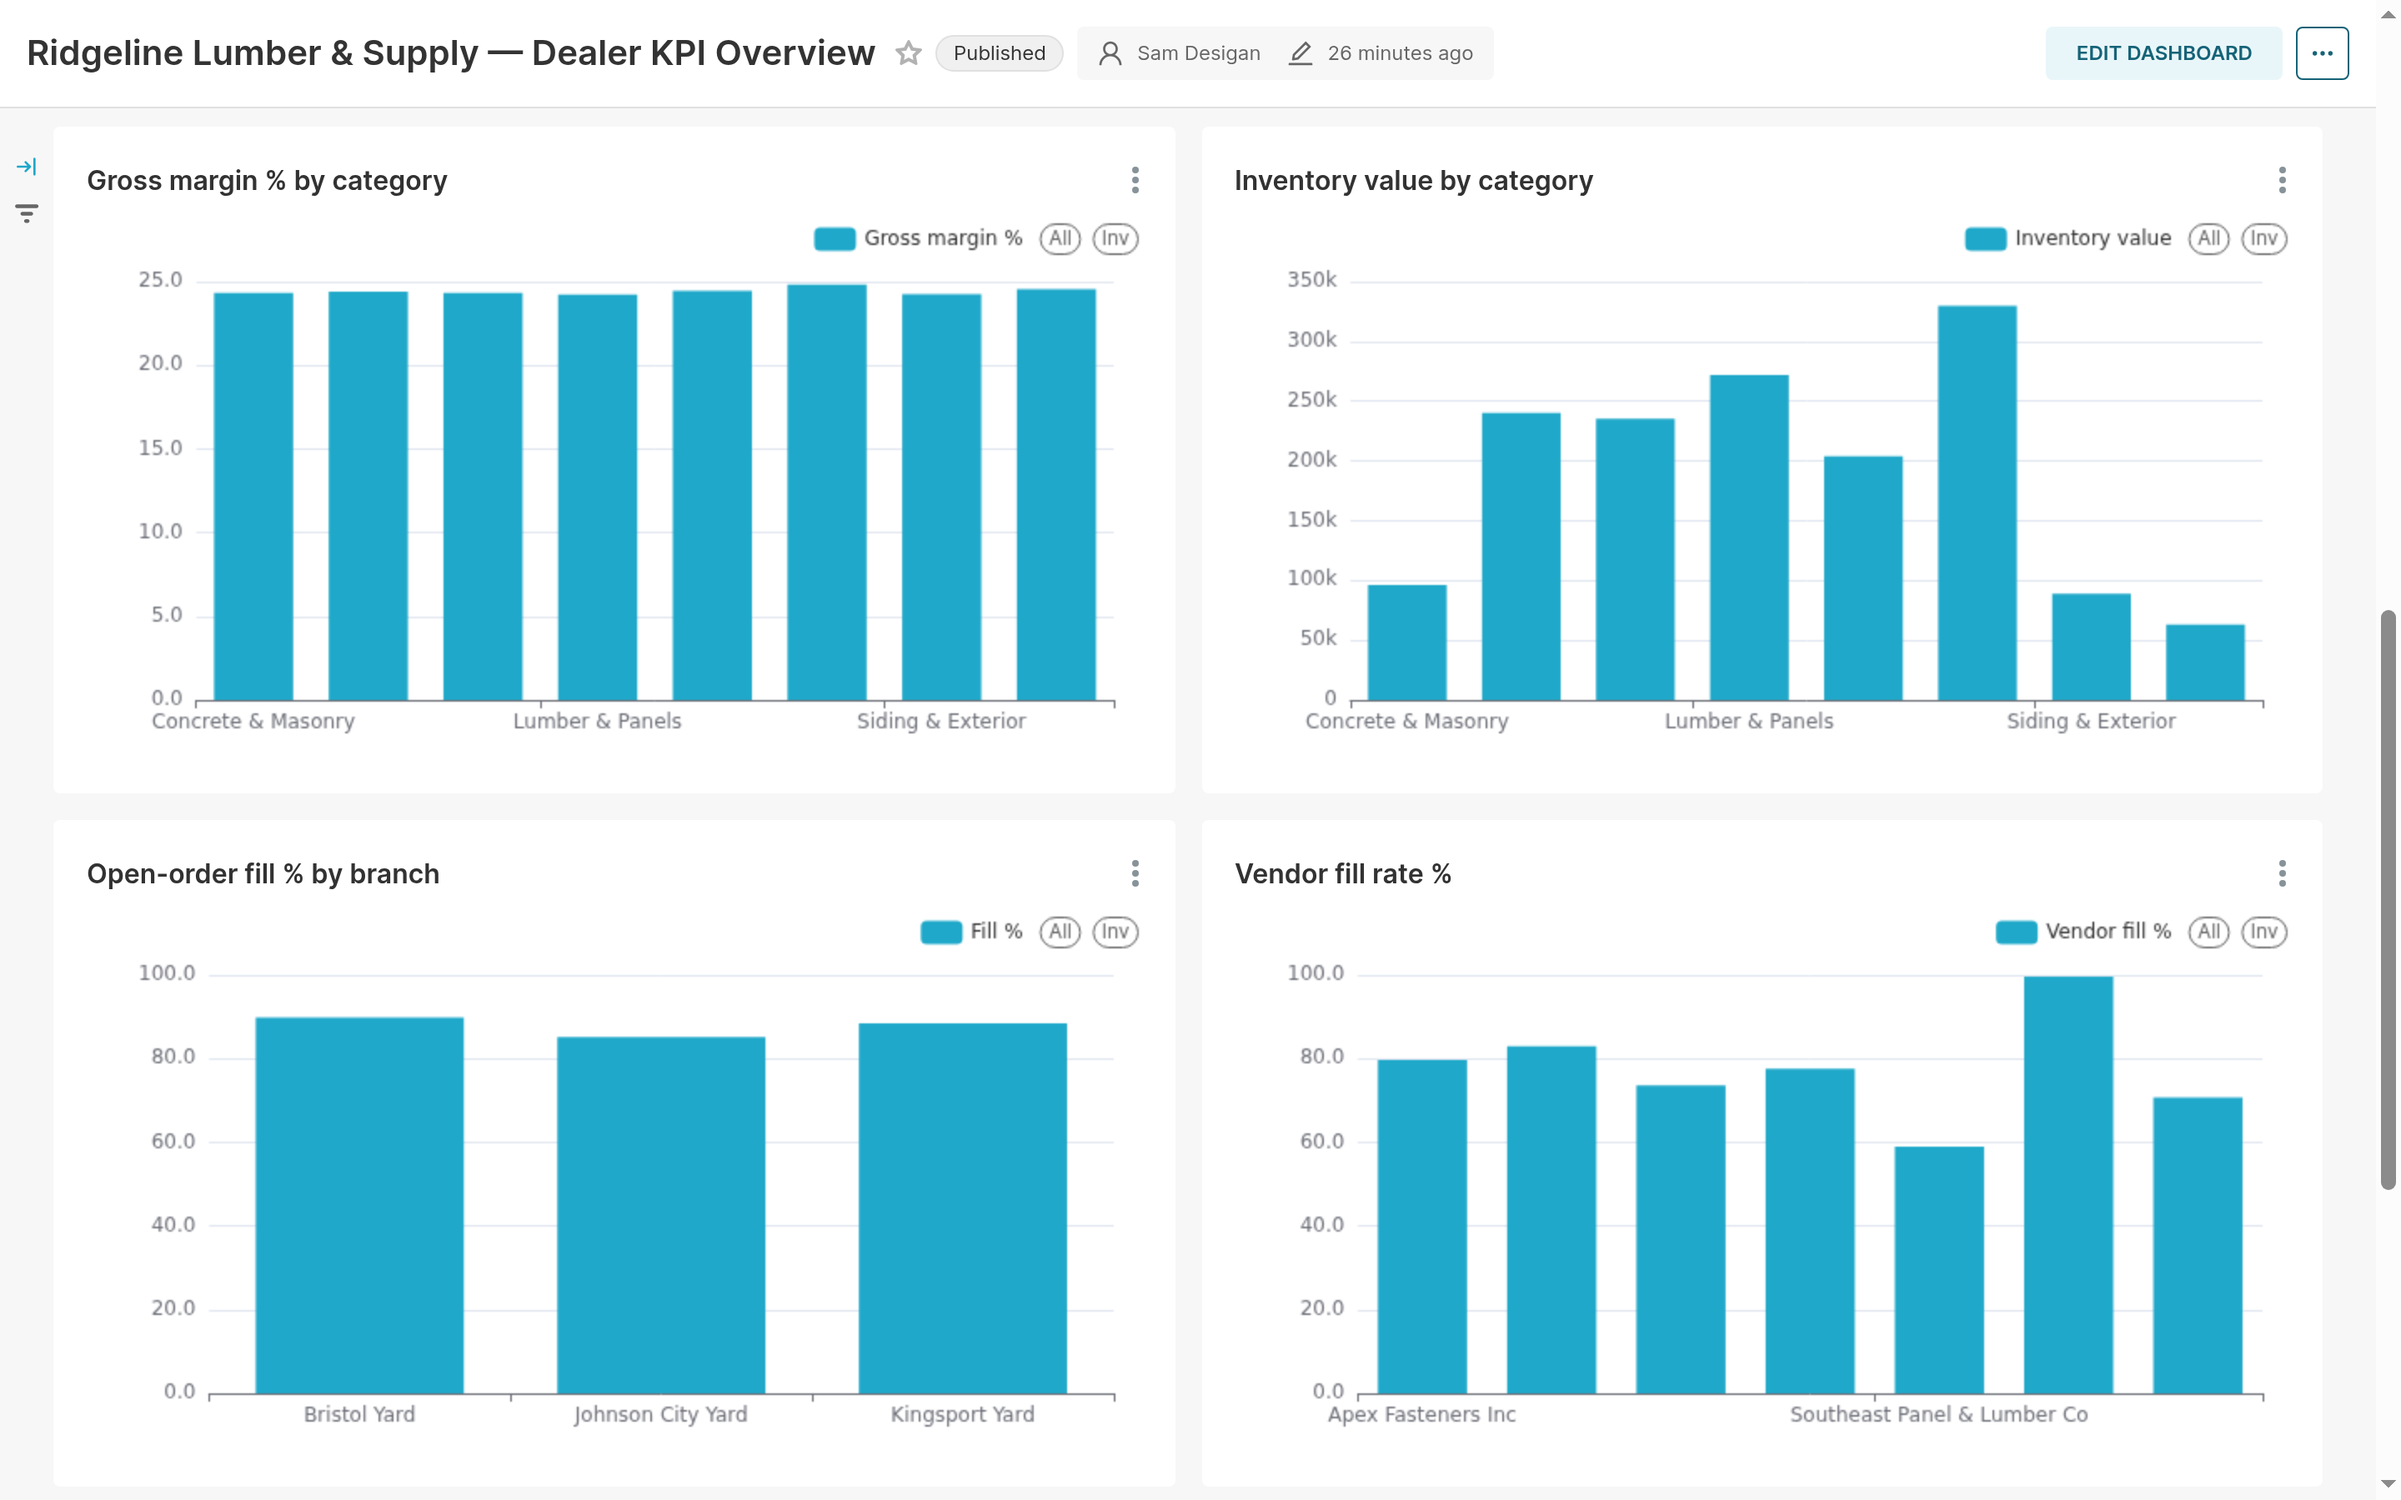
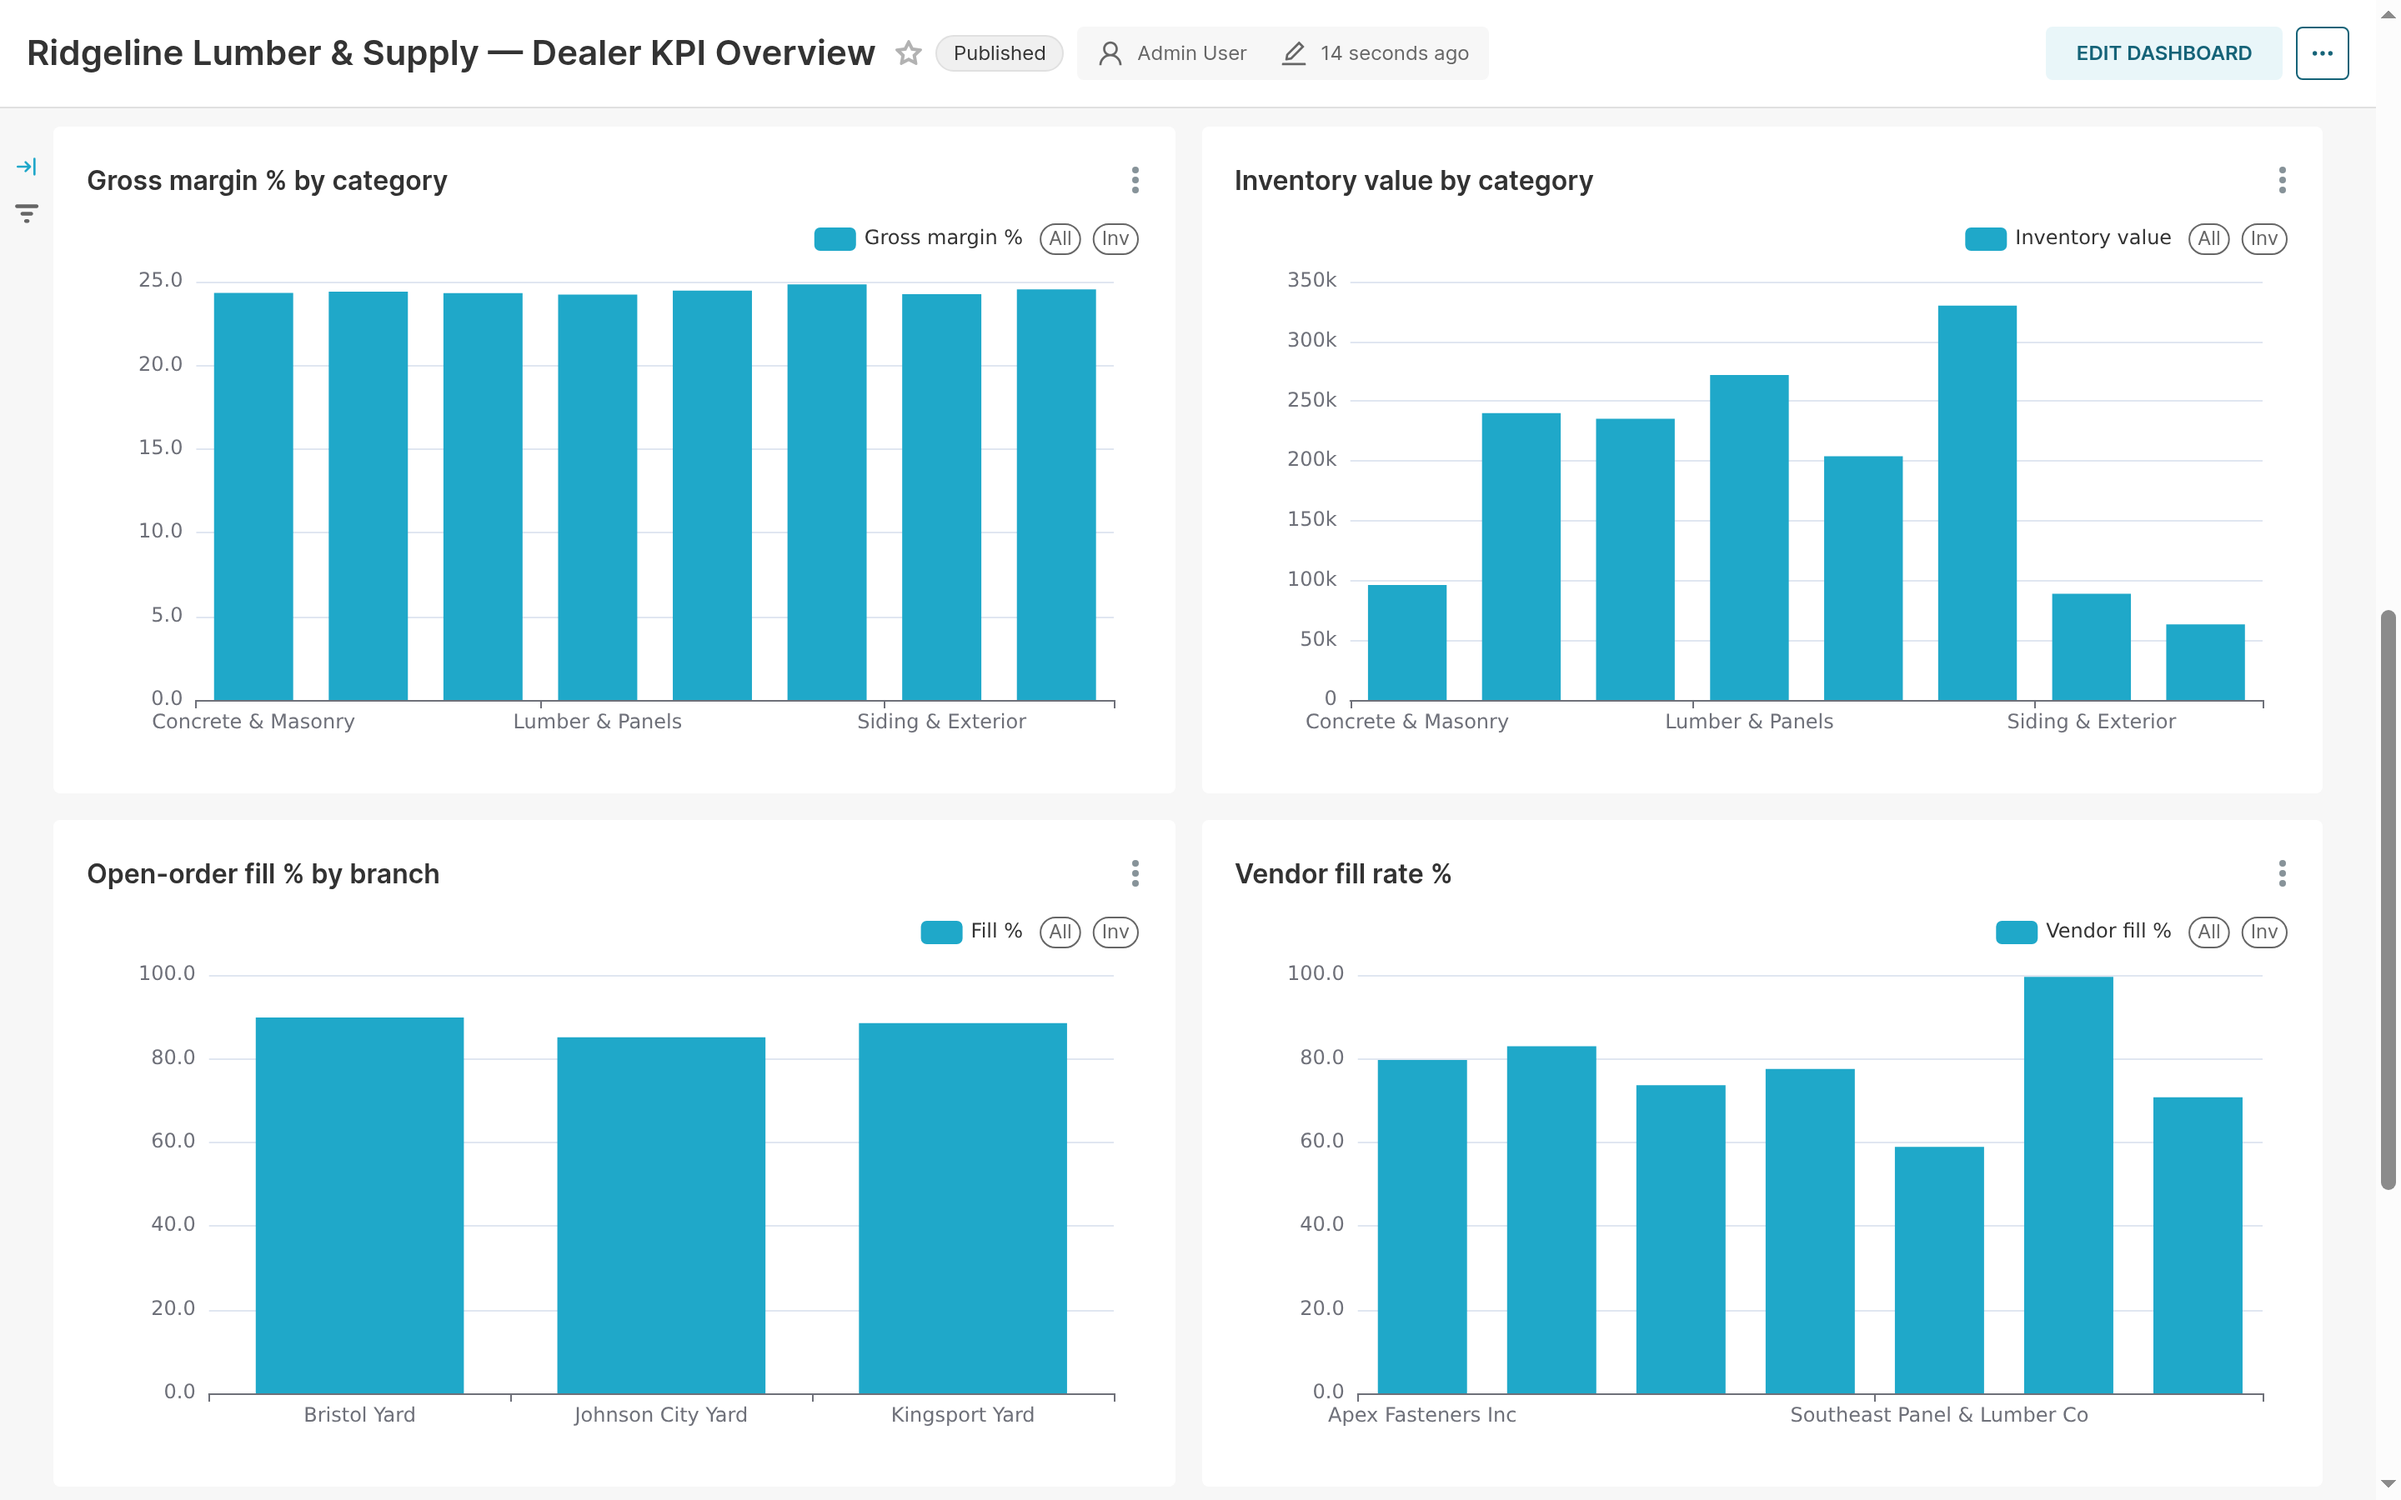
fix(superset): reassert dashboard title on updates and fail closed on unnamed objects (#19)
The committed dashboard screenshots showed an 'Untitled' title bar and an
'Untitled' filter block from a manually built, pre-script dashboard state that
no committed provisioning code produced. The current script renders zero
'Untitled' strings (verified against a live Superset 4.1.1 stack in the DOM and
via document.title), but two hardening gaps remained:

- ensure_dashboard omitted dashboard_title on the update path, so a stale
  UI-default title would survive reruns; every write now reasserts it.
- Nothing refused blank or placeholder names before provisioning; a new
  assert_explicit_names preflight now fails closed for the database, dashboard
  title/slug, every dataset (physical + virtual), and every chart, and
  PHYSICAL_DATASETS/DATASET_NAMES enumerate the guarded names.

Also fixes a real blocker: probe_mart sent an empty metrics/columns query that
Superset 4.1.1 rejects ('Empty query?'); it now queries a real dataset column
with row_limit 1, keeping the fail-closed live-data validation.

Both screenshots are regenerated from the live hardened stack at the same
filenames (2880x1800) so README embeds stay valid.

diff --git a/analytics/superset/build_dashboard.py b/analytics/superset/build_dashboard.py
@@ -207,6 +207,15 @@ VIRTUAL_DATASETS = {
     "kpi_long": KPI_LONG_SQL,
 }
 
+# name -> schema in the dealer warehouse. Every dataset the provisioning script
+# will create, physical and virtual, is enumerated here so the naming preflight
+# can vouch for all of them.
+PHYSICAL_DATASETS = {
+    "kpi_headline": "main_marts",
+    "fact_invoice_line": "main_canonical",
+}
+DATASET_NAMES = (*PHYSICAL_DATASETS, *VIRTUAL_DATASETS)
+
 
 def ensure_dataset(table_name, sql=None, schema=None):
     existing = find_one("/api/v1/dataset/", "table_name", table_name)
@@ -498,7 +507,14 @@ def ensure_dashboard(ids):
         "cross_filters_enabled": True,
         "positions": layout,
     }
-    layout_payload = {"json_metadata": json.dumps(json_metadata), "published": True}
+    # dashboard_title rides on every write, not just the create: a dashboard
+    # row previously saved as "Untitled" (UI-default or stale) must heal on the
+    # next provisioning run instead of keeping an untraceable title.
+    layout_payload = {
+        "dashboard_title": DASH_TITLE,
+        "json_metadata": json.dumps(json_metadata),
+        "published": True,
+    }
     existing = find_one("/api/v1/dashboard/", "slug", DASH_SLUG)
     if existing:
         dash_id = existing["id"]
@@ -529,15 +545,24 @@ def probe_mart(ds_map):
     must never render as a real KPI, so no tile is created from a data source
     that cannot be certified.
     """
+    ds_id = ds_map["kpi_headline"]
+    ds = api("GET", f"/api/v1/dataset/{ds_id}")["result"]
+    columns = [c["column_name"] for c in ds.get("columns", []) if c.get("column_name")]
+    if not columns:
+        sys.exit(
+            f"{MOCK_KPI_MARKER} kpi_headline dataset exposes no columns — refusing to"
+            " build KPI tiles from a source that cannot be certified"
+        )
+    # Superset >=4 rejects queries with no metrics, columns, and groupby
+    # ("Empty query?"), so the probe reads a real column at row_limit 1.
     res = api(
         "POST",
         "/api/v1/chart/data",
         json={
-            "datasource": {"id": ds_map["kpi_headline"], "type": "table"},
+            "datasource": {"id": ds_id, "type": "table"},
             "queries": [
                 {
-                    "metrics": [],
-                    "groupby": [],
+                    "columns": columns[:1],
                     "time_range": "No filter",
                     "filters": [],
                     "row_limit": 1,
@@ -598,13 +623,38 @@ def verify_charts(ids, ds_map):
         sys.exit(f"{failures} chart queries failed")
 
 
+def assert_explicit_names():
+    """Fail closed when any creatable object would be provisioned unnamed.
+
+    An unnamed dashboard, dataset, or slice renders as "Untitled" in Superset
+    UIs and screenshots; the dealer dashboard must never carry an untraceable
+    title, so provisioning refuses instead of guessing.
+    """
+    candidates = [
+        ("database", DB_NAME),
+        ("dashboard_title", DASH_TITLE),
+        ("dashboard slug", DASH_SLUG),
+    ]
+    candidates += [(f"dataset {name!r}", name) for name in DATASET_NAMES]
+    candidates += [
+        (f"chart {name!r} (CHARTS[{i}])", name) for i, (name, *_rest) in enumerate(CHARTS)
+    ]
+    offenders = [
+        label
+        for label, name in candidates
+        if not isinstance(name, str) or not name.strip() or name.strip() == "Untitled"
+    ]
+    if offenders:
+        sys.exit(f"refusing to provision unnamed or placeholder-titled objects: {offenders}")
+
+
 def main():
     global HEADERS, DB_ID
+    assert_explicit_names()
     HEADERS = login()
     DB_ID = ensure_database()
     ds_map = {
-        "kpi_headline": ensure_dataset("kpi_headline", schema="main_marts"),
-        "fact_invoice_line": ensure_dataset("fact_invoice_line", schema="main_canonical"),
+        name: ensure_dataset(name, schema=schema) for name, schema in PHYSICAL_DATASETS.items()
     }
     for name, sql in VIRTUAL_DATASETS.items():
         ds_map[name] = ensure_dataset(name, sql=sql)
